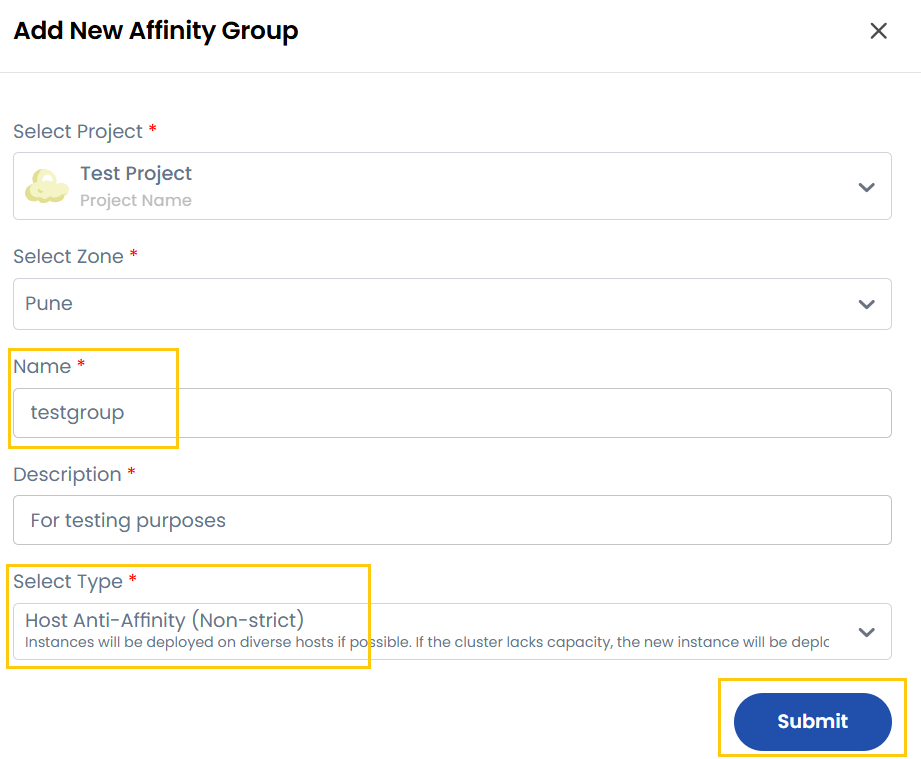
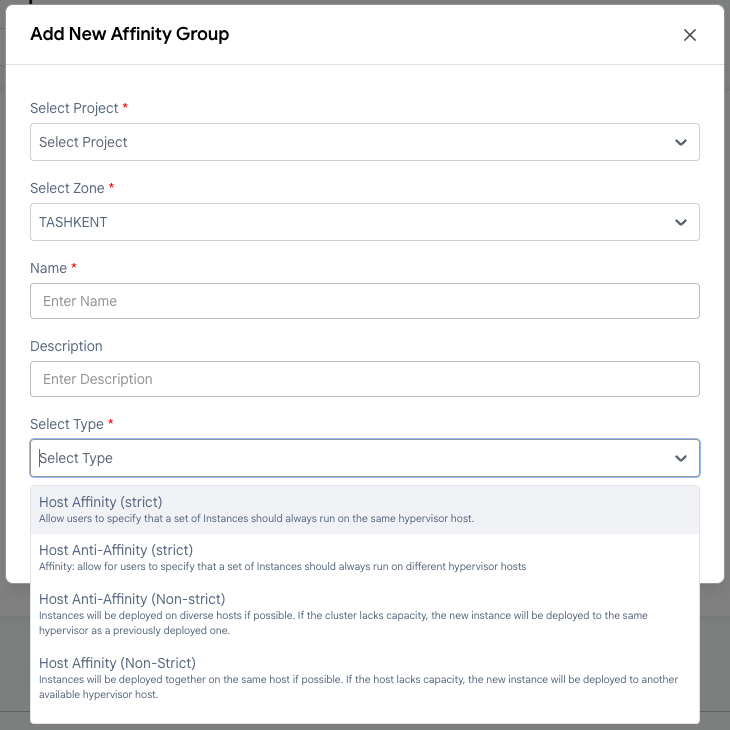
docs: update affinity groups guide after console review

Changed region(s): [[0.0, 0.0, 1.0, 1.0], [0.9342, 0.4822, 0.9644, 0.5123]]

diff --git a/ru/affinity-groups/create-affinity-groups.md b/ru/affinity-groups/create-affinity-groups.md
@@ -11,17 +11,17 @@
 ### Создание группы привязки
 
 - В меню слева откройте вкладку **Affinity Groups**.
-- Чтобы создать группу, нажмите **Create Affinity Groups** или значок **плюс (+)** в правой части страницы. Откроется форма создания группы.
+- Чтобы создать группу, нажмите **+ Create New** в правом верхнем углу страницы. Откроется окно **Add New Affinity Group**.
 
 ![Страница групп привязки](../../images/create-ag.png)
 
 ### Добавление группы привязки
 
-- Выберите проект и нужную зону доступности.
+- Выберите проект в поле **Select Project** и зону в поле **Select Zone**.
 
-- Введите уникальное имя группы (**Affinity Group**) и краткое описание ее назначения.
+- Укажите уникальное **Name** (имя) и при желании **Description** (описание).
 
-- Выберите тип группы в зависимости от требований к развертыванию:
+- В поле **Select Type** выберите тип группы:
 
   - **Host Affinity (Strict)** — ВМ из группы всегда должны работать на одном хосте гипервизора. Подходит для нагрузок, которым нужны связь с низкой задержкой и общие ресурсы. Если требование невыполнимо, ВМ не будут развернуты.
   - **Host Anti-Affinity (Strict)** — ВМ всегда должны размещаться на разных хостах гипервизора. Это повышает отказоустойчивость, исключая единую точку отказа. Если отдельных хостов нет, ВМ не будут развернуты.

diff --git a/en/affinity-groups/create-affinity-groups.md b/en/affinity-groups/create-affinity-groups.md
@@ -11,17 +11,17 @@ In **UzCloud**, Affinity Groups are used to control the placement of virtual mac
 ### Creating an Affinity Group
 
 - From the left-hand side menu, click on the **Affinity Groups** tab.
-- To create an affinity group, click the **Create Affinity Groups** or **plus (+)** icon located on the right side of the page. This will open the affinity group creation form.
+- To create an affinity group, click **+ Create New** in the top-right corner of the page. The **Add New Affinity Group** window opens.
 
 ![Affinity Groups Page](../../images/create-ag.png)
 
 ### Add Affinity Group
 
-- To create a new affinity group, choose the project and select the appropriate availability zone.
+- Select the project in **Select Project** and the zone in **Select Zone**.
 
-- Enter a unique name for the **Affinity Group** and add a brief description to help identify its purpose.
+- Enter a unique **Name** and, optionally, a **Description**.
 
-- Select the affinity group type from the following options based on your deployment needs:
+- In **Select Type**, select the affinity group type:
 
   - **Host Affinity (Strict)**: Ensures that a specified set of instances must always run on the same hypervisor host. Ideal for workloads that require low-latency communication and shared resources. If the requirement cannot be met, the instances will not be deployed.
   - **Host Anti-Affinity (Strict)**: Ensures that instances must always be deployed on different hypervisor hosts. This helps improve fault tolerance by preventing a single point of failure. If there are no separate hosts available, instances will not be deployed.

diff --git a/uz/affinity-groups/create-affinity-groups.md b/uz/affinity-groups/create-affinity-groups.md
@@ -11,17 +11,17 @@
 ### Affinity guruhini yaratish
 
 - Chap menyuda **Affinity Groups** yorligʻini oching.
-- Guruh yaratish uchun sahifaning oʻng tomonidagi **Create Affinity Groups** yoki **plyus (+)** belgisini bosing. Guruh yaratish shakli ochiladi.
+- Guruh yaratish uchun sahifaning yuqori oʻng burchagidagi **+ Create New** tugmasini bosing. **Add New Affinity Group** oynasi ochiladi.
 
 ![Affinity guruhlari sahifasi](../../images/create-ag.png)
 
 ### Affinity guruhini qoʻshish
 
-- Loyihani va kerakli mavjudlik zonasini tanlang.
+- **Select Project** maydonida loyihani va **Select Zone** maydonida zonani tanlang.
 
-- Guruhning noyob nomini (**Affinity Group**) va uning maqsadi haqida qisqacha tavsifni kiriting.
+- Noyob **Name** (nom) va xohlasangiz **Description** (tavsif) ni kiriting.
 
-- Joylashtirish talablariga qarab guruh turini tanlang:
+- **Select Type** maydonida guruh turini tanlang:
 
   - **Host Affinity (Strict)** — guruhdagi VM’lar har doim bitta gipervizor xostida ishlashi kerak. Past kechikishli aloqa va umumiy resurslar talab qilinadigan yuklamalar uchun mos. Agar talab bajarilmasa, VM’lar joylashtirilmaydi.
   - **Host Anti-Affinity (Strict)** — VM’lar har doim turli gipervizor xostlarida joylashtirilishi kerak. Bu yagona nosozlik nuqtasini istisno qilib, nosozlikka chidamlilikni oshiradi. Alohida xostlar boʻlmasa, VM’lar joylashtirilmaydi.
